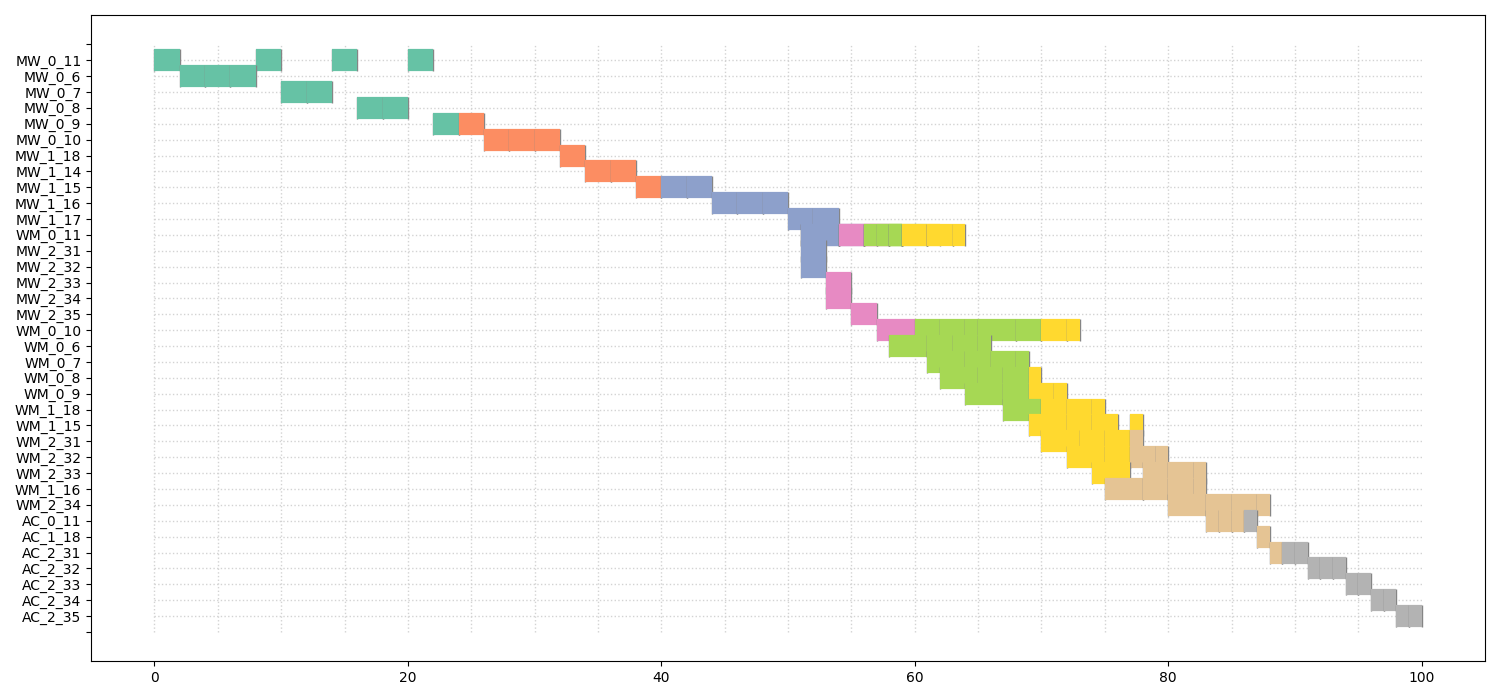
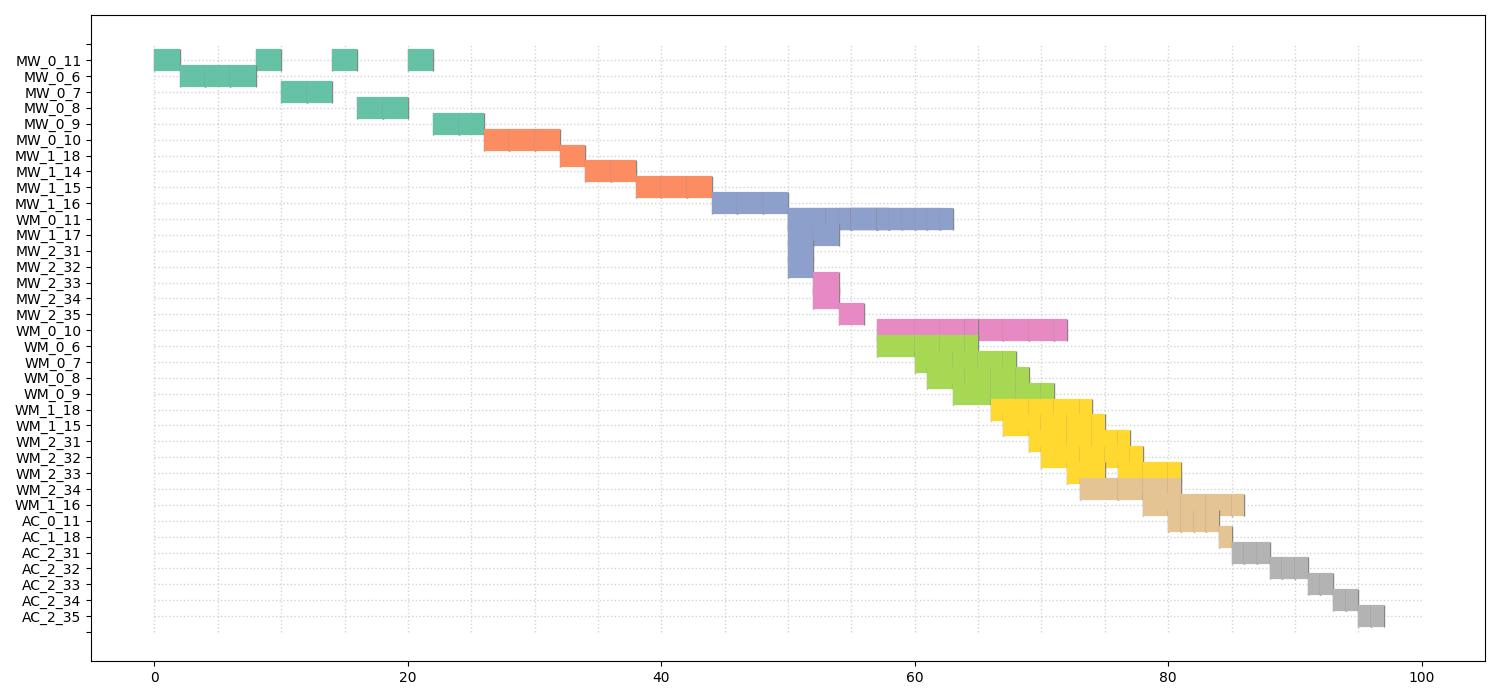
stable baselines

diff --git a/solvers/mip.py b/solvers/mip.py
@@ -27,15 +27,27 @@ class MIPSolver(Solver):
                         if debug:
                             print(f'0 <= {start_time} <= {T-duration}')
 
+                        time_decider_list = []
+                        debug_time_decider_list = []
+
                         for i in range(len(self.price)):
                             time_decider = f'T_{house}_{machine_id}_{n_job}_{n_op}_{i}'
                             self.variables[time_decider] = self.solver.IntVar(
                                 0, 1, time_decider)
 
+                            time_decider_list.append(
+                                self.variables[time_decider])
+                            debug_time_decider_list.append(time_decider)
+
                             if debug:
                                 print(f'0 <= {time_decider} <= 1')
 
-                        print()
+                        self.solver.Add(
+                            self.solver.Sum(time_decider_list) == 1)
+
+                        if debug:
+                            print(f'{" + ".join(debug_time_decider_list)} = 1')
+                            print()
 
     def add_constraints(self, debug=False):
         T = self.env.day
@@ -96,7 +108,7 @@ class MIPSolver(Solver):
                                 print(
                                     f'-M * (1 - {time_decider}) <= {start_time} - {_from}')
                                 print(
-                                    f'{start_time} - {_to} <= M * (1 - {time_decider})')
+                                    f'{start_time} - {_to} <= M * (1 - {time_decider})\n')
 
                         job_costs.append(
                             duration * self.solver.Sum(time_delta))
@@ -109,7 +121,7 @@ class MIPSolver(Solver):
 
     def solve(self):
 
-        debug = True
+        debug = False
         if debug:
             print('Constraints:')
 
@@ -140,6 +152,13 @@ class MIPSolver(Solver):
             self.cost = 0
             for t in range(len(power_usage)):
                 self.cost += self.price(t) * power_usage[t]
+
+            if debug:
+                print('\n\nSolution:')
+                print('---------------------')
+                print('Objective value =', self.solver.Objective().Value())
+                for var in self.variables:
+                    print(f'{var} = {self.variables[var].solution_value()}')
 
         else:
             raise Exception('The problem does not have an optimal solution.')

diff --git a/main.py b/main.py
@@ -19,9 +19,9 @@ if __name__ == '__main__':
     env = Env(building, job, machines, day)
 
     solvers = [
-        # BSKnapsackSolver,
+        BSKnapsackSolver,
         # GreedySolver,
-        MIPSolver,
+        # MIPSolver,
     ]
 
     for solver in solvers:
@@ -29,5 +29,5 @@ if __name__ == '__main__':
         solver = solver(env, price)
         solver.solve()
         print(solver)
-        print(solver.scehdule())
+        # print(solver.scehdule())
         solver.visualize()
